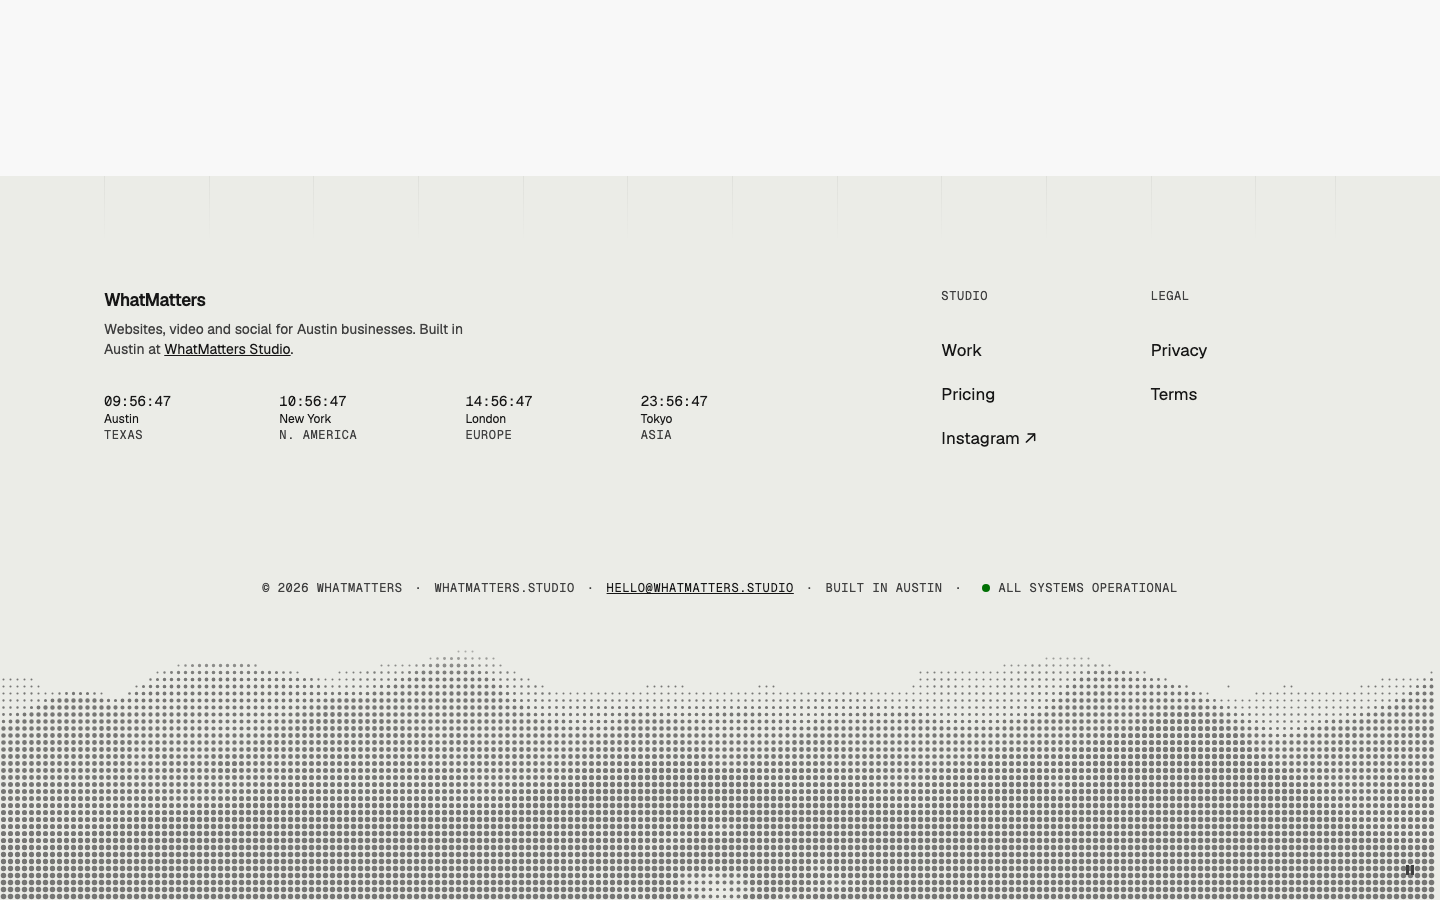
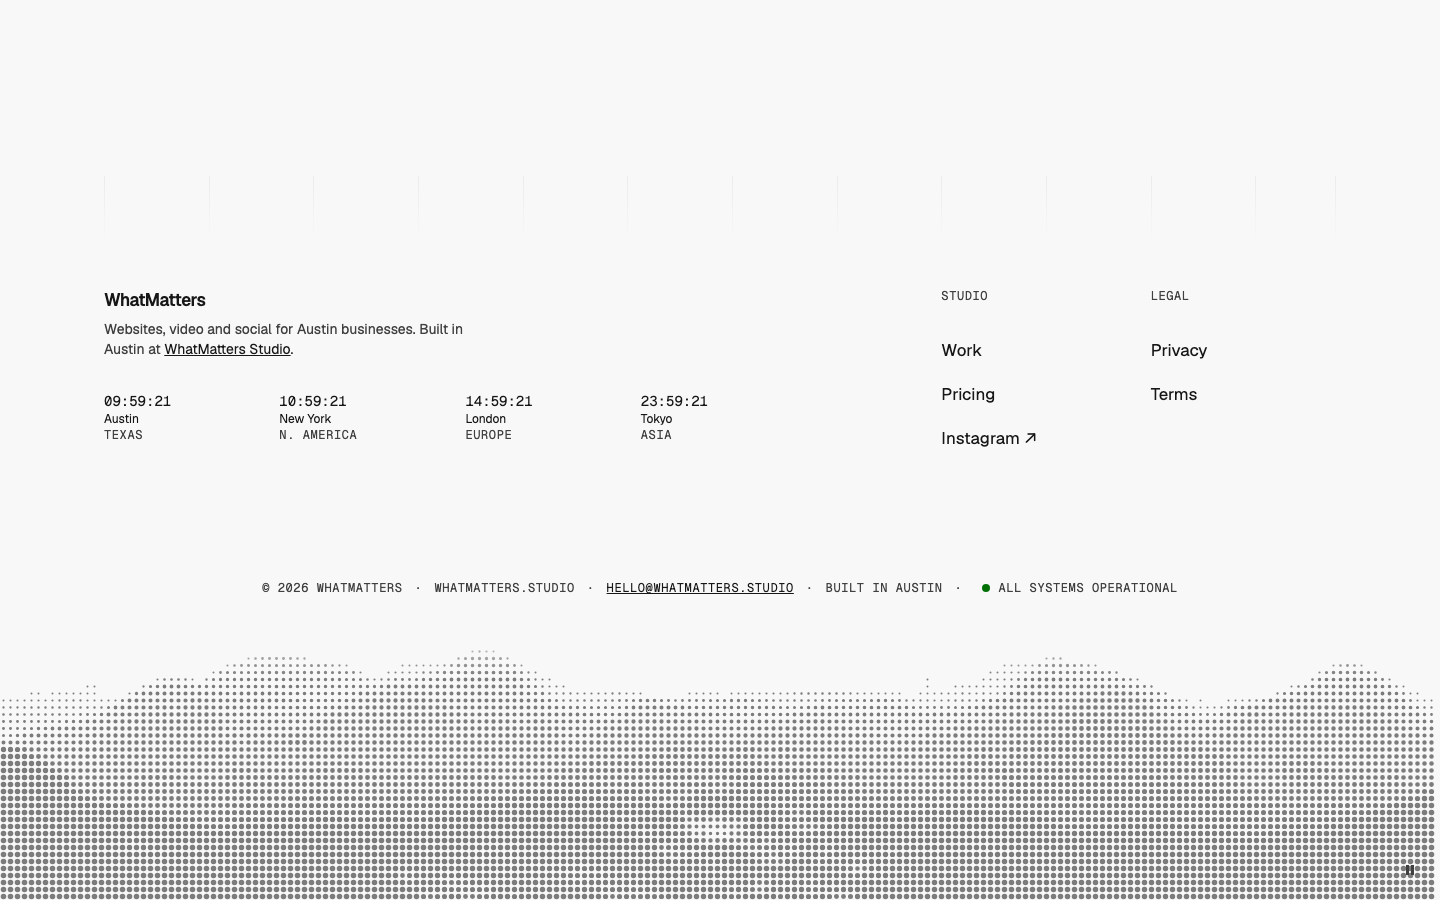
Footer — Landscape: example uses the WMDS base colours (no custom paper tint)

diff --git a/patterns/footer/landscape/example.tsx b/patterns/footer/landscape/example.tsx
@@ -17,7 +17,6 @@ export function FooterLandscapeExample(props: Partial<FooterLandscapeProps>) {
   return (
     <div className="flex min-h-svh flex-col justify-end">
       <FooterLandscape
-        className="[--color-background-muted:#ebece7] [[data-theme=dark]_&]:[--color-background-muted:#222321]"
         brand={<span className="type-large font-semibold tracking-tight">WhatMatters</span>}
         pitch={
           <>

diff --git a/patterns/footer/landscape/README.md b/patterns/footer/landscape/README.md
@@ -43,7 +43,7 @@ import { FooterAsciiBand, FooterClocks, FooterLandscape } from "./FooterLandscap
 
 ## Knobs
 
-- `--color-background-muted`: the paper. Set it per brand in brand.css; the example tints it (#ebece7 light, #222321 dark). Muted text on it measured 8.7:1 (light) and 8.3:1 (dark).
+- `--color-background-muted`: the paper. The example uses the WMDS base colour; set it per brand in brand.css.
 - The band reads the sky colour from the video's top-left corner, so any plain sky works; raise `threshold` for a hazy one.
 
 ## Adapt it
